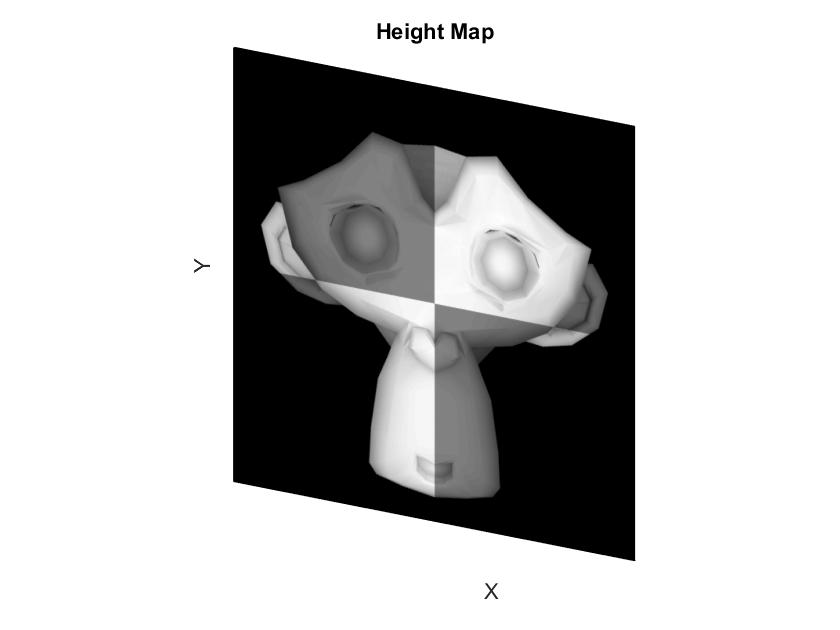
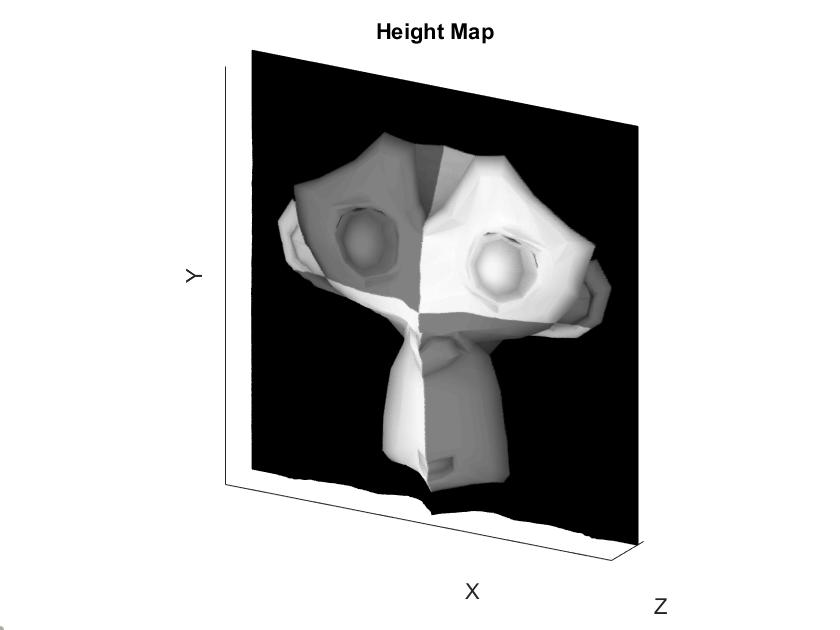
color working

diff --git a/photometric/photometric_stereo.m b/photometric/photometric_stereo.m
@@ -7,13 +7,12 @@ disp('Part 1: Photometric Stereo')
 
 % obtain many images in a fixed view under different illumination
 disp('Loading images...')
-image_dir = './photometrics_images/SphereGray5/';   % TODO: get the path of the script
+image_dir = './photometrics_images/MonkeyColor/';   % TODO: get the path of the script
 %image_ext = '*.png';
-color_mode = 'Gray'
+color_mode = false
 
-if color_mode=='Gray'
-    max_channel = 1;
-elseif color_mode == 'Color'
+max_channel = 1;
+if color_mode == true
     max_channel = 3;
 end
 
@@ -33,7 +32,20 @@ fprintf('Finish loading %d images.\n\n', n);
 
 % compute the surface gradient from the stack of imgs and light source mat
 disp('Computing surface albedo and normal map...')
-[albedo, normals] = estimate_alb_nrm(image_stack, scriptV, false);
+if color_mode == true
+    im_count = n/max_channel;
+    for cnl = 1:max_channel
+        im_range = (im_count*(cnl-1)):(im_count*cnl);
+        [albedo(:,:,cnl), cnl_normals(:,:,:,cnl)] = estimate_alb_nrm(image_stack(:,:,im_range), scriptV(im_range,:));
+    end
+    normals = cnl_normals(:,:,:,1);
+    for n = 2:max_channel
+        normals = normals + cnl_normals(:,:,:,n);
+    end
+    normals = normals./4;
+else
+    [albedo, normals] = estimate_alb_nrm(image_stack, scriptV);
+end
 
 
 %% integrability check: is (dp / dy  -  dq / dx) ^ 2 small everywhere?
